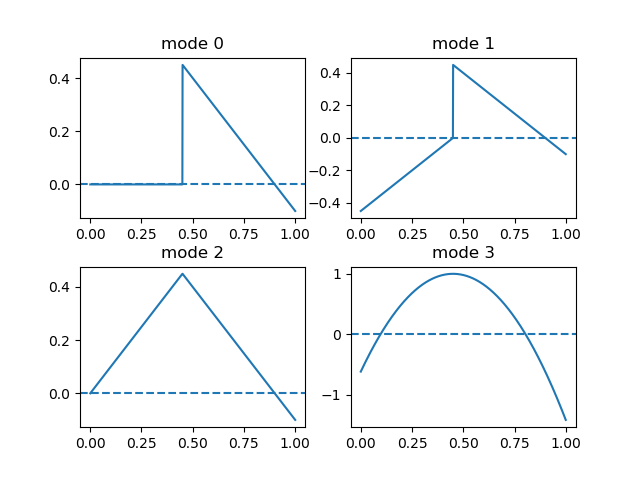
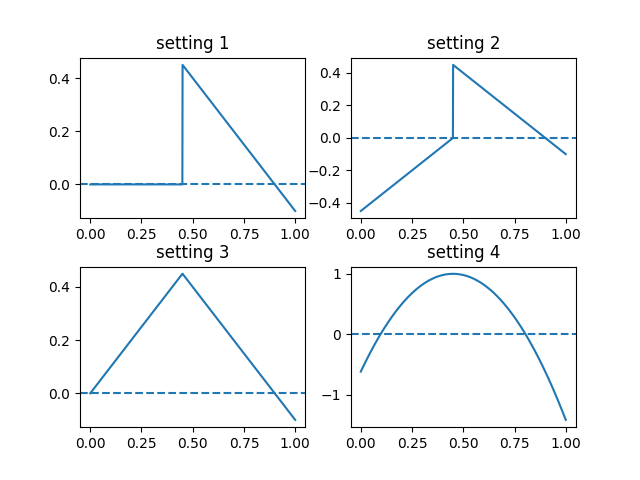
updated index

diff --git a/code/plot_gaussian.py b/code/plot_gaussian.py
@@ -37,7 +37,7 @@ for i in range(len(reward)):
     ax = plt.subplot(2,2, i+1)
     plt.axhline(0,linestyle='--')
     plt.plot(x, y)
-    ax.set_title("mode "+str(i))
+    ax.set_title("setting "+str(i+1))
 
 fig.savefig('reward_func.png')
 
